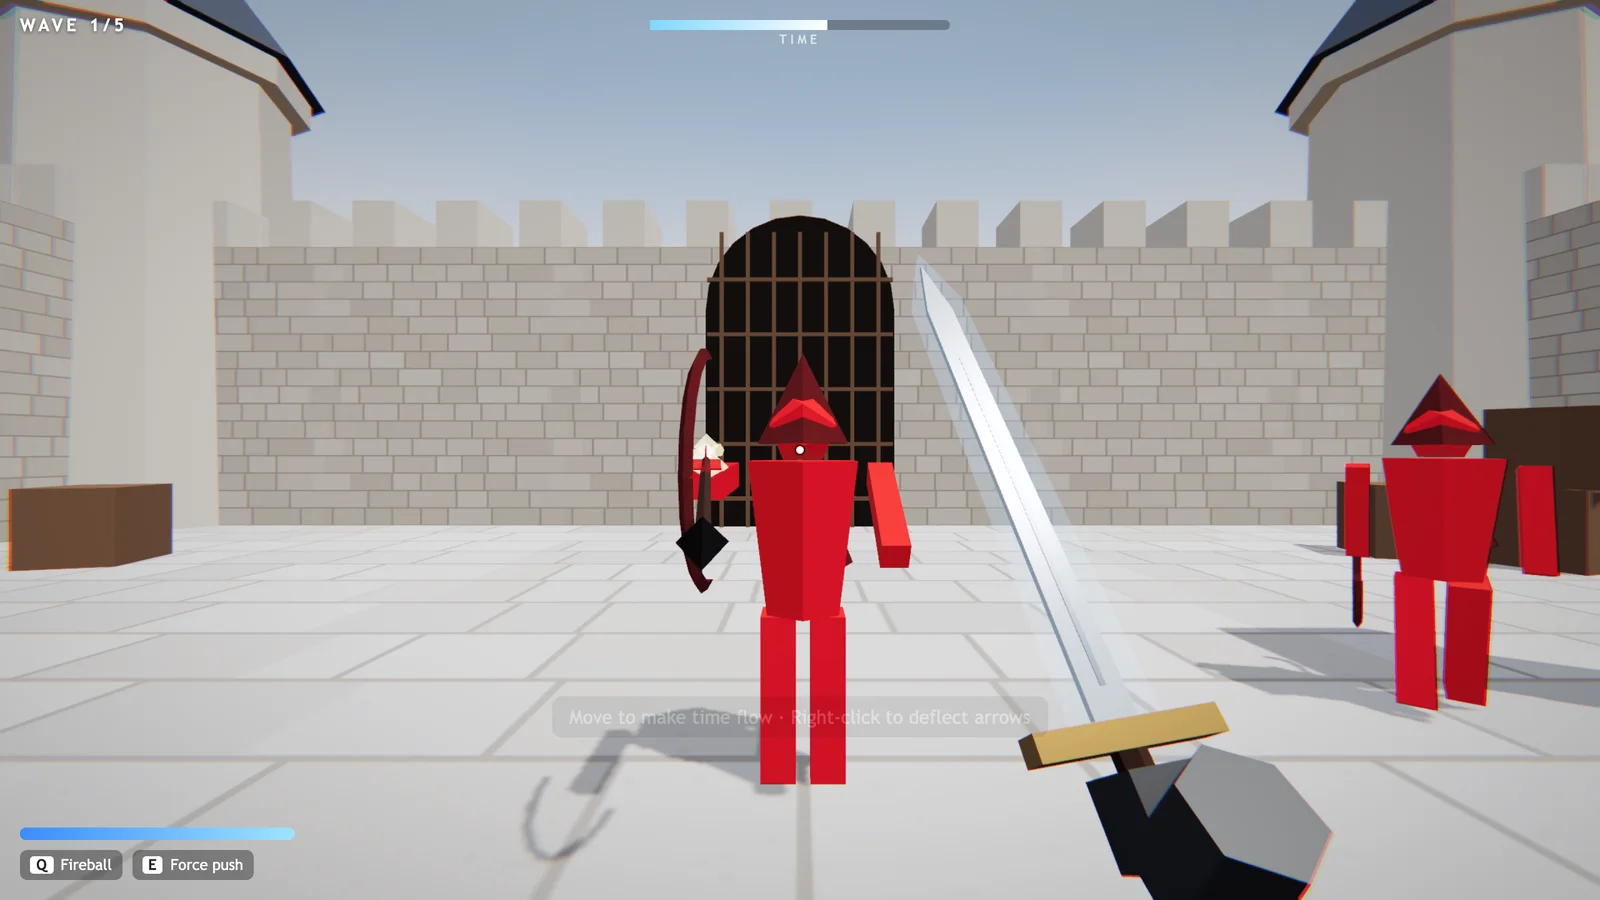
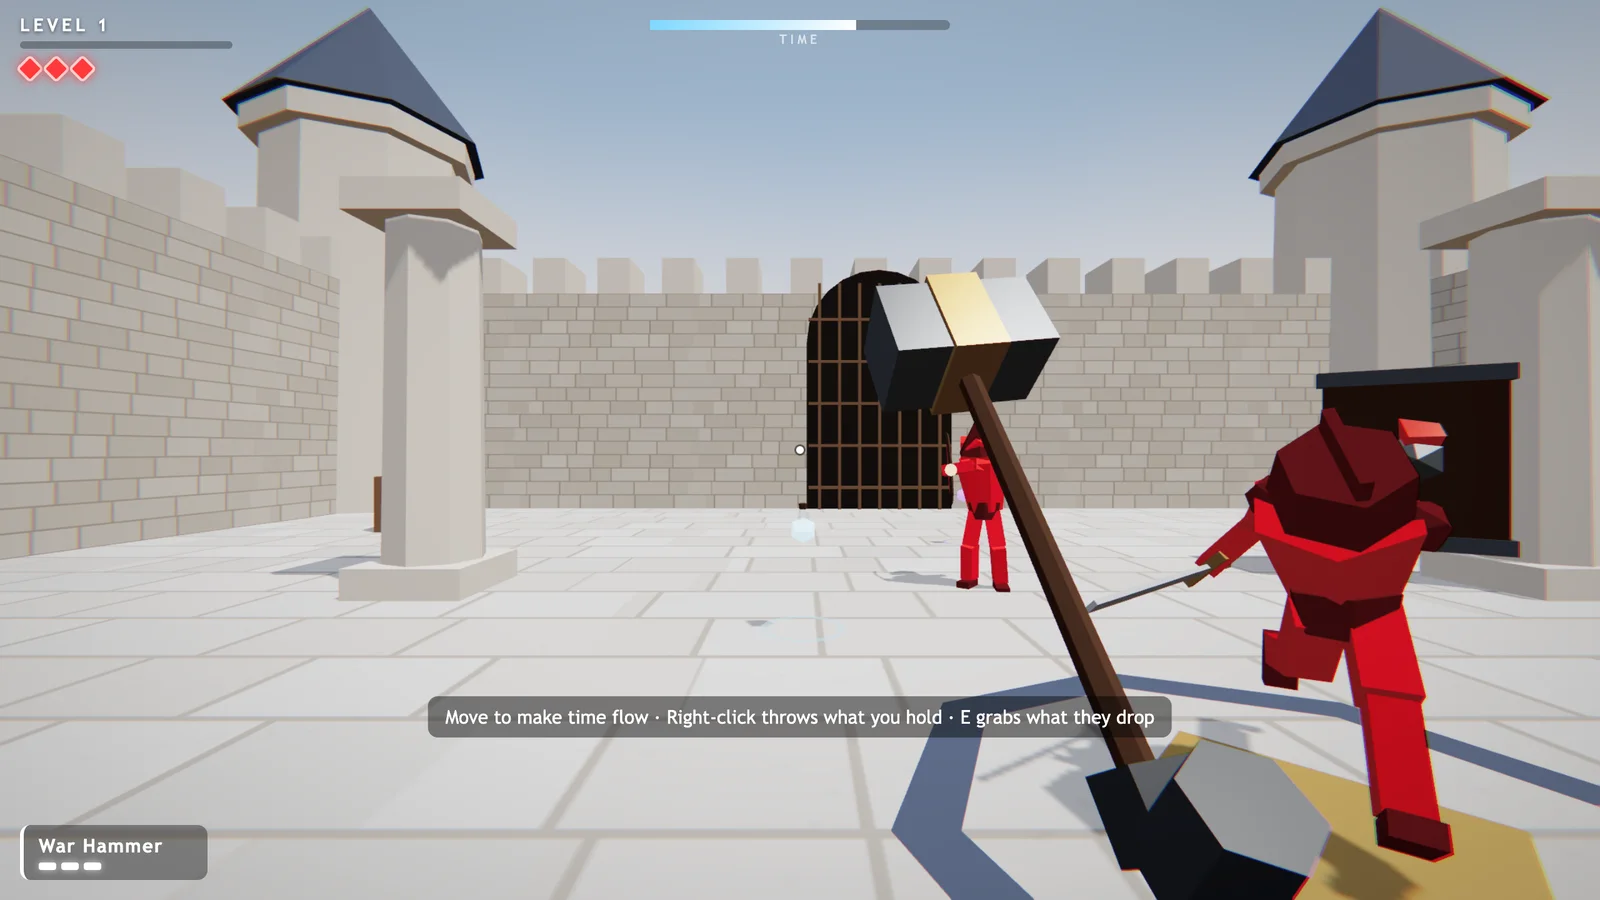
Cable Calm and Slowsteel: describe the newly published builds
New screenshots, how to play and controls. Cable Calm opens with every
job unlocked so any of them can be shown.

diff --git a/prototypes.js b/prototypes.js
@@ -36,30 +36,32 @@ window.PROTOTYPES = [
   },
   {
     slug: 'cable-calm',
-    focus: '50% 24%', // part of the screenshot kept in view on the home
+    focus: '50% 30%', // part of the screenshot kept in view on the home
     name: 'Cable Calm',
     kind: 'Cozy job simulator',
     accent: '#f5a623',
     hook: 'Untangle the mess, plug everything in and light every LED.',
     how: [
       'Drag each plug to the port with the same color and symbol.',
-      'Cables behave like real rope: they bend, hang, snag and cross.',
-      'Tie matching cables together, then compare before and after for up to three stars.',
+      'Cables behave like real rope: tame them with zip ties, velcro, reels, a comb and hooks.',
+      'Seven jobs, from a home router to a datacenter. Power on, compare before and after, earn up to three stars.',
     ],
-    tryFirst: "Play the first job, Grandma Rosa's Router, and slide the before and after at the end.",
+    tryFirst: "Play Grandma Rosa's Router and press Power on, then jump to Radio Luna: every job is unlocked here.",
     repo: 'https://github.com/fafidesplas/coolmath-cable-tidy',
     versions: [
       {
-        url: 'https://fafidesplas.github.io/coolmath-cable-tidy/',
+        url: 'https://fafidesplas.github.io/coolmath-cable-tidy/?all',
         img: 'img/cable-calm.webp',
-        alt: 'A café router on a brick wall with tangled blue and black cables hanging from the wrong ports',
+        alt: 'A radio mixer on a wood wall with tangled white, black and orange cables hanging over two hooks',
         controls: [
           ['Drag', 'Move a plug or a cable'],
-          ['Release near a port', 'Plug in'],
-          ['T', 'Cable tie, then click where it goes'],
-          ['Click a tie', 'Remove it'],
-          ['Esc', 'Put the tie away'],
-          ['Touch', 'Drag with a finger, tap the Tie button'],
+          ['Release near a port', 'Plug in, or swap a wrong plug'],
+          ['Number keys', 'Pick a tool'],
+          ['Esc', 'Back to the hand'],
+          ['Click', 'Zip tie, velcro, reel, label'],
+          ['Press and drag', 'Comb, spiral, duster, driver'],
+          ['Click a yellow ring', 'Flick a crossing loose'],
+          ['Touch', 'Same, with drag and tap'],
         ],
       },
     ],
@@ -124,25 +126,25 @@ window.PROTOTYPES = [
     hook: 'A first-person castle arena where time moves only when you move.',
     how: [
       'Stand still and the arrows hang in the air. Walk and the world wakes up.',
-      'Slash, block and parry: a well-timed swing sends arrows back.',
-      'One hit and you shatter. Clear five waves of crystal knights.',
+      "Every weapon breaks, so take the next one out of the air, off the ground or from a knight's hands.",
+      'Split shields, throw fire, frost and storm flasks, and choose an upgrade every few kills.',
     ],
-    tryFirst: 'Stop in front of an archer, wait for the arrow to get close, then block to send it back.',
+    tryFirst: 'Pick any weapon, throw it at a knight and grab what they drop with E.',
     note: 'The game captures the mouse. Press Esc to get it back.',
     repo: 'https://github.com/fafidesplas/coolmath-slowmo-arena',
     versions: [
       {
         url: 'https://fafidesplas.github.io/coolmath-slowmo-arena/',
         img: 'img/slowsteel.webp',
-        alt: 'First-person view of a castle courtyard with two red low-poly knights and a raised sword',
+        alt: 'First-person view of a castle courtyard holding a war hammer while two red knights attack',
         controls: [
           ['WASD or arrows', 'Move'],
           ['Mouse', 'Look'],
-          ['Left click or F', 'Slash'],
-          ['Right click or Shift', 'Block and parry'],
-          ['Q', 'Fireball'],
-          ['E', 'Force push'],
-          ['R', 'Restart the wave'],
+          ['Left click', 'Attack or use'],
+          ['Right click, F or Q', 'Throw what you hold'],
+          ['E', 'Grab, swap or catch'],
+          ['Click on a flask', 'Break it over your weapon'],
+          ['1 2 3 or click', 'Choose an upgrade'],
           ['Touch', 'Left thumb moves, right side looks'],
         ],
       },
